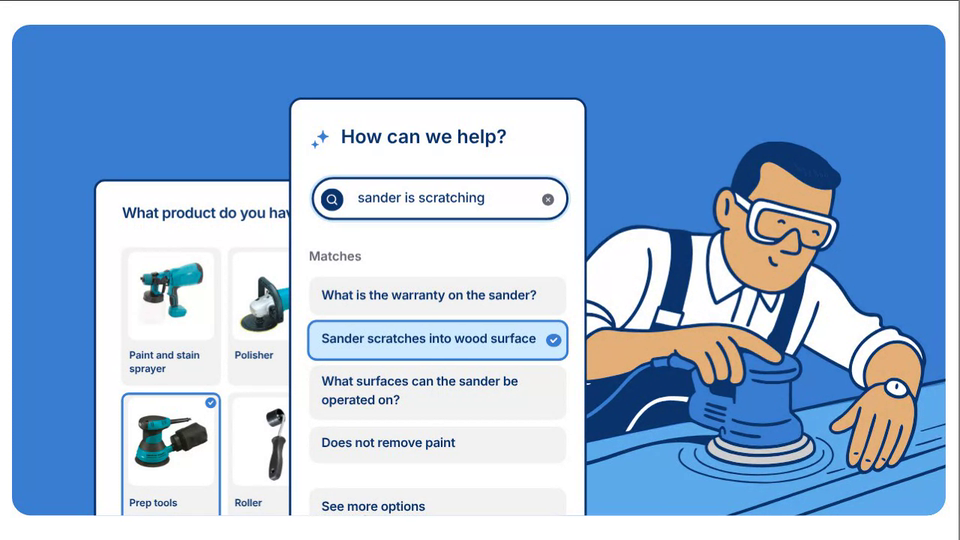
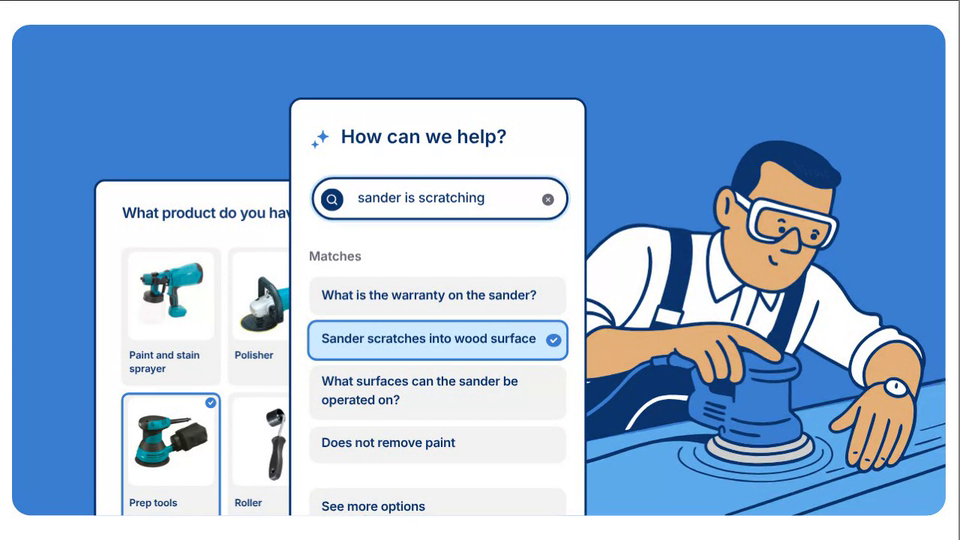
Sander Troubleshoot: fix the worker's eyes (#334)
* Add Sander Troubleshoot Flow and Variant Try-On Engine (Mavenoid-branded illustration looks)

Claude-Session: https://claude.ai/code/session_01AHeBdyNeaELCh2LXZzRH9f

* Re-record clips so the first frame is the starting state

Claude-Session: https://claude.ai/code/session_01AHeBdyNeaELCh2LXZzRH9f

* Merge flow and try-on engine into one page, recolouring the Sander Troubleshoot worker

Claude-Session: https://claude.ai/code/session_01AHeBdyNeaELCh2LXZzRH9f

* Merge the sander flow and restyle studio into Sander Troubleshoot as one page

Claude-Session: https://claude.ai/code/session_01AHeBdyNeaELCh2LXZzRH9f

* Sander Troubleshoot: back to just the animation

Claude-Session: https://claude.ai/code/session_01AHeBdyNeaELCh2LXZzRH9f

* Sander Troubleshoot: fix the worker's eyes (pupils were sized to nothing)

Claude-Session: https://claude.ai/code/session_01AHeBdyNeaELCh2LXZzRH9f

---------

diff --git a/sander-troubleshoot/index.html b/sander-troubleshoot/index.html
@@ -90,9 +90,9 @@ main{flex:1;min-height:0;display:flex;flex-direction:column;align-items:center;p
 <img id="worker" class="abs" src="assets/worker.svg" alt="">
 <img class="abs" style="left:333.5px;top:101.6px;width:5.043px;height:4.279px;transform:rotate(14.06deg)" src="assets/v410.svg" alt="">
 <img class="abs" style="left:338.7px;top:84.7px;width:3.466px;height:3.466px;transform:rotate(-34deg)" src="assets/v411.svg" alt="">
-<img class="abs" style="left:340.5px;top:90.3px;width:.014px;height:.069px;overflow:visible" src="assets/v415.svg" alt="">
+<img class="abs" style="left:338.9px;top:88.66px;width:3.2px;height:3.28px" src="assets/v415.svg" alt="">
 <img class="abs" style="left:353.5px;top:89.5px;width:3.466px;height:3.466px;transform:rotate(-13.86deg)" src="assets/v412.svg" alt="">
-<img class="abs" style="left:354.2px;top:93.7px;width:.014px;height:.069px;overflow:visible" src="assets/v416.svg" alt="">
+<img class="abs" style="left:352.6px;top:92.06px;width:3.2px;height:3.28px" src="assets/v416.svg" alt="">
 </div>
 
 <!-- product picker -->
